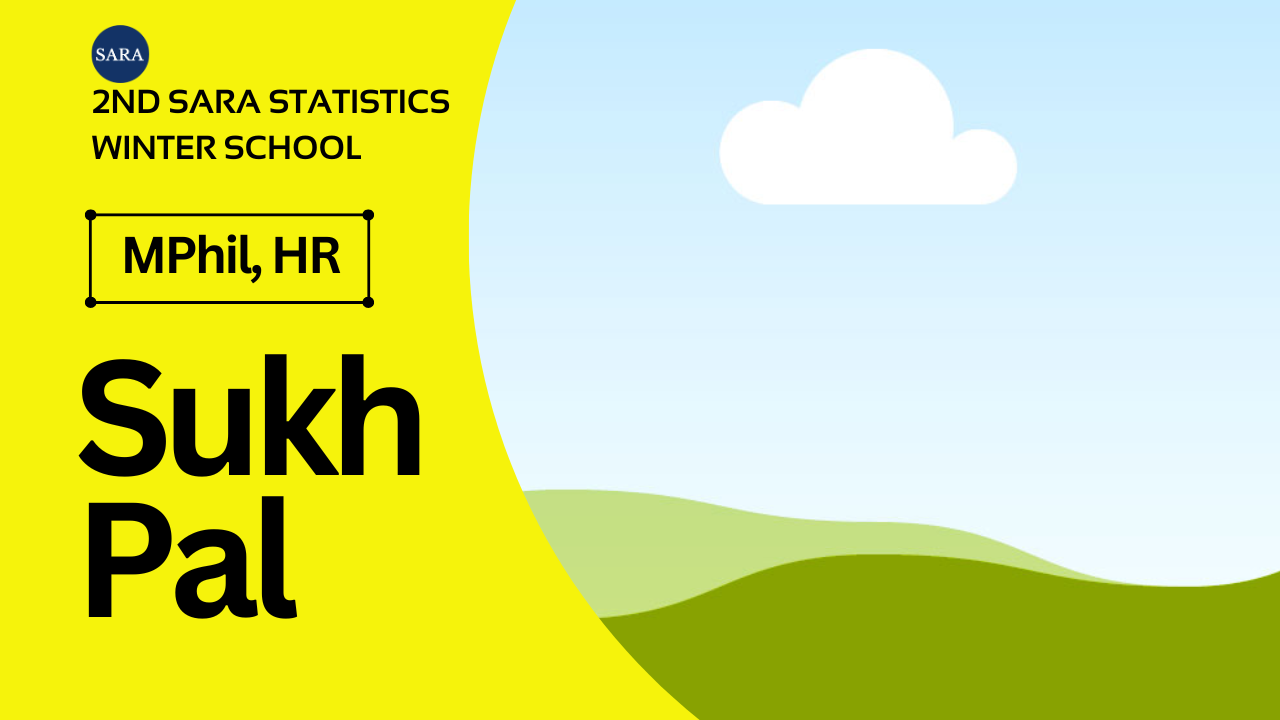
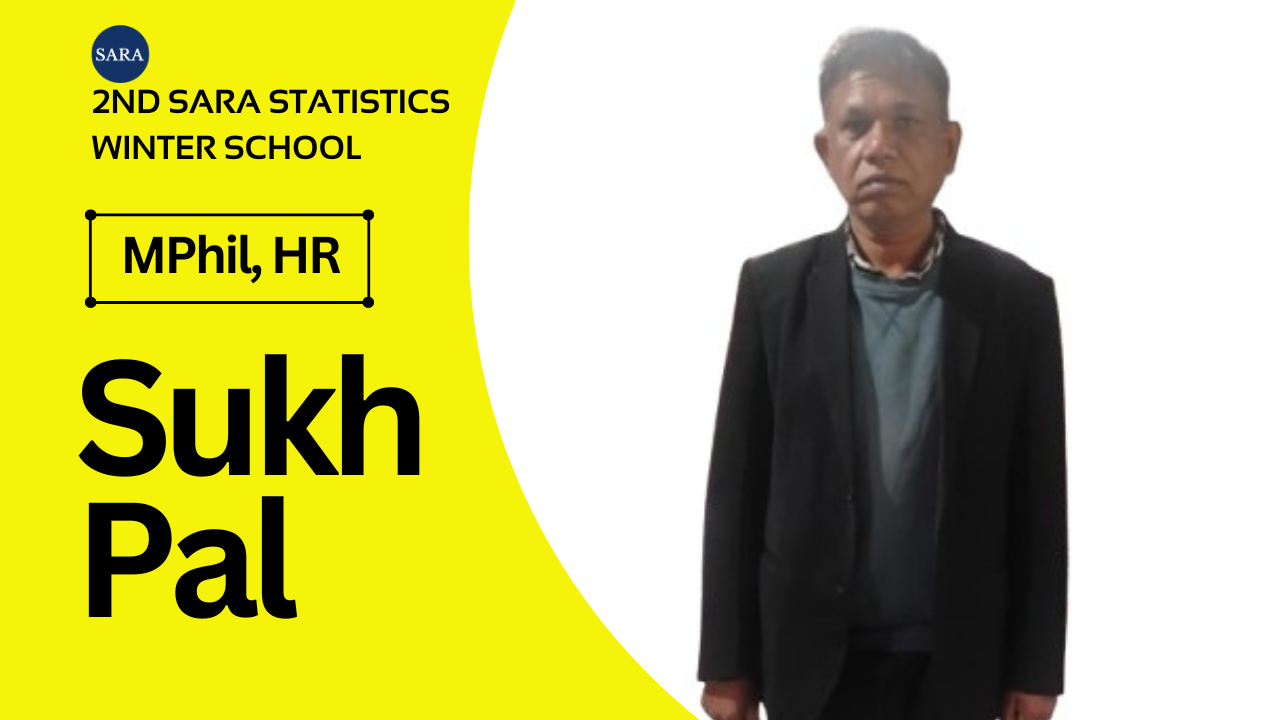
added sukh pal img

diff --git a/_site/visualization.html b/_site/visualization.html
@@ -382,7 +382,7 @@ Figure&nbsp;3
 </div>
 <div class="cell">
 <div class="cell-output-display">
-<countdown-timer class="countdown" id="timer_f3493598" minutes="5" seconds="0" update-every="1" play-sound="true" tabindex="0" style="top:1%;right:0;--countdown-font-size:1.7em;"></countdown-timer>
+<countdown-timer class="countdown" id="timer_728d0bf9" minutes="5" seconds="0" update-every="1" play-sound="true" tabindex="0" style="top:1%;right:0;--countdown-font-size:1.7em;"></countdown-timer>
 </div>
 </div>
 </section>
@@ -525,7 +525,7 @@ Figure&nbsp;6
 </div>
 <div class="cell">
 <div class="cell-output-display">
-<countdown-timer class="countdown" id="timer_bb456f92" minutes="5" seconds="0" update-every="1" play-sound="true" tabindex="0" style="top:-5%;right:0;--countdown-font-size:2em;"></countdown-timer>
+<countdown-timer class="countdown" id="timer_4d5827a0" minutes="5" seconds="0" update-every="1" play-sound="true" tabindex="0" style="top:-5%;right:0;--countdown-font-size:2em;"></countdown-timer>
 </div>
 </div>
 </section>
@@ -612,7 +612,7 @@ Figure&nbsp;7
 </div>
 <div class="cell">
 <div class="cell-output-display">
-<countdown-timer class="countdown" id="timer_ec19a6df" minutes="5" seconds="0" update-every="1" play-sound="true" tabindex="0" style="top:-5%;right:0;--countdown-font-size:2em;"></countdown-timer>
+<countdown-timer class="countdown" id="timer_d931b0ab" minutes="5" seconds="0" update-every="1" play-sound="true" tabindex="0" style="top:-5%;right:0;--countdown-font-size:2em;"></countdown-timer>
 </div>
 </div>
 </section>
@@ -762,7 +762,7 @@ Figure&nbsp;10
 </div>
 <div class="cell">
 <div class="cell-output-display">
-<countdown-timer class="countdown" id="timer_c47b4233" minutes="5" seconds="0" update-every="1" play-sound="true" tabindex="0" style="top:-5%;right:0;--countdown-font-size:2em;"></countdown-timer>
+<countdown-timer class="countdown" id="timer_d1f39f5d" minutes="5" seconds="0" update-every="1" play-sound="true" tabindex="0" style="top:-5%;right:0;--countdown-font-size:2em;"></countdown-timer>
 </div>
 </div>
 </section>

diff --git a/_site/index.html b/_site/index.html
@@ -186,7 +186,6 @@ window.Quarto = {
   <li><a href="#session-8" id="toc-session-8" class="nav-link" data-scroll-target="#session-8"><span class="header-section-number">9</span> Session</a></li>
   <li><a href="#session-9" id="toc-session-9" class="nav-link" data-scroll-target="#session-9"><span class="header-section-number">10</span> Session</a></li>
   <li><a href="#session-10" id="toc-session-10" class="nav-link" data-scroll-target="#session-10"><span class="header-section-number">11</span> Session</a></li>
-  <li><a href="#session-11" id="toc-session-11" class="nav-link" data-scroll-target="#session-11"><span class="header-section-number">12</span> Session</a></li>
   </ul>
 </nav>
     </div>
@@ -321,15 +320,6 @@ window.Quarto = {
 </section>
 <section id="session-10" class="level2" data-number="11">
 <h2 data-number="11" class="anchored" data-anchor-id="session-10"><span class="header-section-number">11</span> Session</h2>
-    <p><a href="github.html" target="_blank">View slides in full screen</a></p>
-       <div class="ratio ratio-16x9">
-      <iframe class="slide-deck" src="github.html" height="500px"></iframe>
-    </div>
-  
-<p><br></p>
-</section>
-<section id="session-11" class="level2" data-number="12">
-<h2 data-number="12" class="anchored" data-anchor-id="session-11"><span class="header-section-number">12</span> Session</h2>
     <p><a href="thanks.html" target="_blank">View slides in full screen</a></p>
        <div class="ratio ratio-16x9">
       <iframe class="slide-deck" src="thanks.html" height="500px"></iframe>

diff --git a/_site/welcome.html b/_site/welcome.html
@@ -274,7 +274,7 @@
 <blockquote>
 <p><span class="clr-white">Hands-on data sci education to organizations nationwide.</span></p>
 </blockquote>
-<div class="quarto-layout-panel" data-layout-nrow="4" data-layout-ncol="2">
+<div class="quarto-layout-panel" data-layout-ncol="2" data-layout-nrow="4">
 <div class="quarto-layout-row">
 <div class="quarto-layout-cell" style="flex-basis: 50.0%;justify-content: flex-start;">
 <div class="quarto-figure quarto-figure-center">
@@ -370,7 +370,7 @@
 <blockquote>
 <p><span class="clr-white">Awareness about Data Science Education &amp; Opportunities.</span></p>
 </blockquote>
-<div class="quarto-layout-panel" data-layout-nrow="3" data-layout-ncol="2">
+<div class="quarto-layout-panel" data-layout-ncol="2" data-layout-nrow="3">
 <div class="quarto-layout-row">
 <div class="quarto-layout-cell" style="flex-basis: 50.0%;justify-content: center;">
 <p><a href="images/intro/visit1.jpg" class="lightbox" data-gallery="quarto-lightbox-gallery-21"><img data-src="images/intro/visit1.jpg"></a></p>

diff --git a/_site/r-intro.html b/_site/r-intro.html
@@ -538,7 +538,7 @@
 <h2>🤯 Your Turn</h2>
 <div class="cell">
 <div class="cell-output-display">
-<countdown-timer class="countdown" id="timer_f4ddc7ab" minutes="15" seconds="0" update-every="1" tabindex="0" style="right:0;bottom:0;"></countdown-timer>
+<countdown-timer class="countdown" id="timer_d1194f56" minutes="15" seconds="0" update-every="1" tabindex="0" style="right:0;bottom:0;"></countdown-timer>
 </div>
 </div>
 
